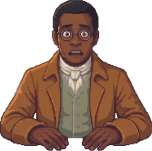
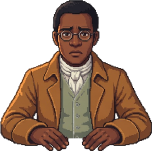
Give the whole cast faces
Thirty expressions from the six new sheets, all verified through the engine
rather than by eye on the source art.

The slicer now works out where each face is instead of being told. It walks
down the silhouette until it widens, which is the neckline, and takes its band
from that — so Thorne's wig, Patience's cap and four bare heads all land right
with nothing measured by hand. The white key is looser too, since JPEG leaves
ringing around an outline that a clean PNG does not.

Two things the render caught that looking at the art would not have:

Ezra's warm panel came back as a grimace rather than a smile, which would have
put a distressed face on his kindest lines. His neutral is already a broad
grin, so dropping the file lets warm fall back to it.

Which exposed a real bug. sprites.js declares all five paths for everybody
whether or not the file exists, so spriteUrl handed back a path to a missing
image and the fallback chain never ran — Ezra reverted to the old code-drawn
figure instead of to his own face. It now steps over paths already known to
have failed, which is what makes the promise that art can arrive one face at a
time actually true.

Claude-Session: https://claude.ai/code/session_01HcRsKZc5qDfcseVefMqqFo

diff --git a/js/art.js b/js/art.js
@@ -1235,7 +1235,15 @@
     if (!table || !table[charId]) return null;
     var set = table[charId];
     var chain = [expr].concat(EXPR_FALLBACK[expr] || ['neutral']);
-    for (var i = 0; i < chain.length; i++) if (set[chain[i]]) return set[chain[i]];
+    for (var i = 0; i < chain.length; i++) {
+      var url = set[chain[i]];
+      /* Every path is declared here whether or not the file exists, so a
+         declared path is not proof of a picture. Step over the ones we have
+         already tried and failed to load, or a character missing a single
+         expression drops to the built-in figure instead of falling back to
+         their own face. */
+      if (url && spriteCache[url] !== 'failed') return url;
+    }
     return null;
   }
 

diff --git a/tools/slice-sheet.py b/tools/slice-sheet.py
@@ -27,18 +27,46 @@ every time the conversation turns.
 Usage: slice.py <sheet.png> <char> <outdir> [x0 y0 x1 y1 as fractions]
 """
 import sys, os
-from PIL import Image
+from PIL import Image, ImageDraw
 
 TARGET_H = 151
 NAMES = ['neutral', 'warm', 'worried', 'stern', 'blink']
 
-# The face band, as fractions of the trimmed figure. Default is tuned to Cato:
-# it starts below the hairline, stops above the collar, and stays inside the
-# edge of the head so both cuts land on flat skin rather than on an outline.
-BAND = (0.349, 0.152, 0.678, 0.384)
+BAND = None      # worked out from the figure unless given on the command line
 
 
-def knockout(im, tol=26):
+def find_band(fig):
+    """Work out where the face is, rather than being told.
+
+    The head is the narrow part above the shoulders, so scanning down the
+    silhouette until it suddenly gets wider finds the neckline. From that the
+    band follows: start below the hairline, stop at the collar, and stay inside
+    the edge of the head so both cuts land on flat skin instead of on an
+    outline. Doing it per character matters — a wig, a linen cap and a bare
+    head all put the hairline somewhere different."""
+    w, h = fig.size
+    a = fig.getchannel('A').load()
+    rows = []
+    for y in range(h):
+        xs = [x for x in range(w) if a[x, y] > 24]
+        rows.append((min(xs), max(xs)) if xs else None)
+    filled = [y for y, r in enumerate(rows) if r]
+    top = filled[0]
+    probe = [rows[y][1] - rows[y][0] for y in filled[:max(4, len(filled) // 5)]]
+    probe.sort()
+    head_w = probe[len(probe) // 2]
+    shoulder = h
+    for y in filled:
+        if y < top + h * 0.12: continue
+        if rows[y][1] - rows[y][0] > head_w * 1.55: shoulder = y; break
+    hx0 = min(rows[y][0] for y in range(top, shoulder) if rows[y])
+    hx1 = max(rows[y][1] for y in range(top, shoulder) if rows[y])
+    inset = (hx1 - hx0) * 0.13
+    return (round(hx0 + inset), round(top + (shoulder - top) * 0.36),
+            round(hx1 - inset), shoulder)
+
+
+def knockout(im, tol=34):
     """Flood the white background in from the edges, leaving enclosed whites
     (a linen cravat, a cap, the whites of eyes) alone."""
     im = im.convert('RGBA')
@@ -114,9 +142,18 @@ def main(path, char, outdir, band=BAND):
 
     cut = [im.crop((x0, 0, x1, im.size[1])).crop((L, T, R, Bm)) for (x0, x1) in runs]
     fw, fh = cut[0].size
-    fx0, fy0 = round(band[0] * fw), round(band[1] * fh)
-    fx1, fy1 = round(band[2] * fw), round(band[3] * fh)
+    if band:
+        fx0, fy0 = round(band[0] * fw), round(band[1] * fh)
+        fx1, fy1 = round(band[2] * fw), round(band[3] * fh)
+    else:
+        fx0, fy0, fx1, fy1 = find_band(cut[0])
     print('face band %s of %s' % ((fx0, fy0, fx1, fy1), (fw, fh)))
+
+    # a picture of where it decided the face was, to be checked before trusting
+    chk = cut[0].convert('RGB')
+    d = ImageDraw.Draw(chk)
+    d.rectangle([fx0, fy0, fx1 - 1, fy1 - 1], outline=(255, 0, 255), width=3)
+    chk.save(os.path.join(outdir, '_band-%s.png' % char))
 
     w = max(1, round(fw * TARGET_H / fh))
     for i, panel in enumerate(cut):
@@ -134,5 +171,5 @@ def main(path, char, outdir, band=BAND):
 
 
 if __name__ == '__main__':
-    b = tuple(float(v) for v in sys.argv[4:8]) if len(sys.argv) >= 8 else BAND
+    b = tuple(float(v) for v in sys.argv[4:8]) if len(sys.argv) >= 8 else None
     sys.exit(main(sys.argv[1], sys.argv[2], sys.argv[3], b))

diff --git a/README.md b/README.md
@@ -264,6 +264,14 @@ To cut the game short, edit `ORDER` in `js/data.js`.
   arrive one face at a time. Missing expressions fall back down a chain, so
   four images per character covers all eight moods and `neutral` alone is
   enough to see somebody in the room.
+- **All six have faces.** Neutral, warm, worried, stern and a blink apiece,
+  cut from five-panel sheets by `tools/slice-sheet.py`. That script finds the
+  panels by the gaps between them, crops all five with one shared box, and
+  takes only a band across the face from each — the body always comes from the
+  neutral, because a generator asked to change an expression will also redraw
+  the coat and, once, turn a man's hair grey. It works out where each face is
+  by finding the shoulders, so a wig, a linen cap and a bare head all land
+  right without being measured by hand.
 - **Sprites move.** A patron rises into the seat rather than appearing,
   breathes, shifts their weight slowly, and settles a little on each line of
   dialogue as though they had just spoken. A change of mood gets its own small
